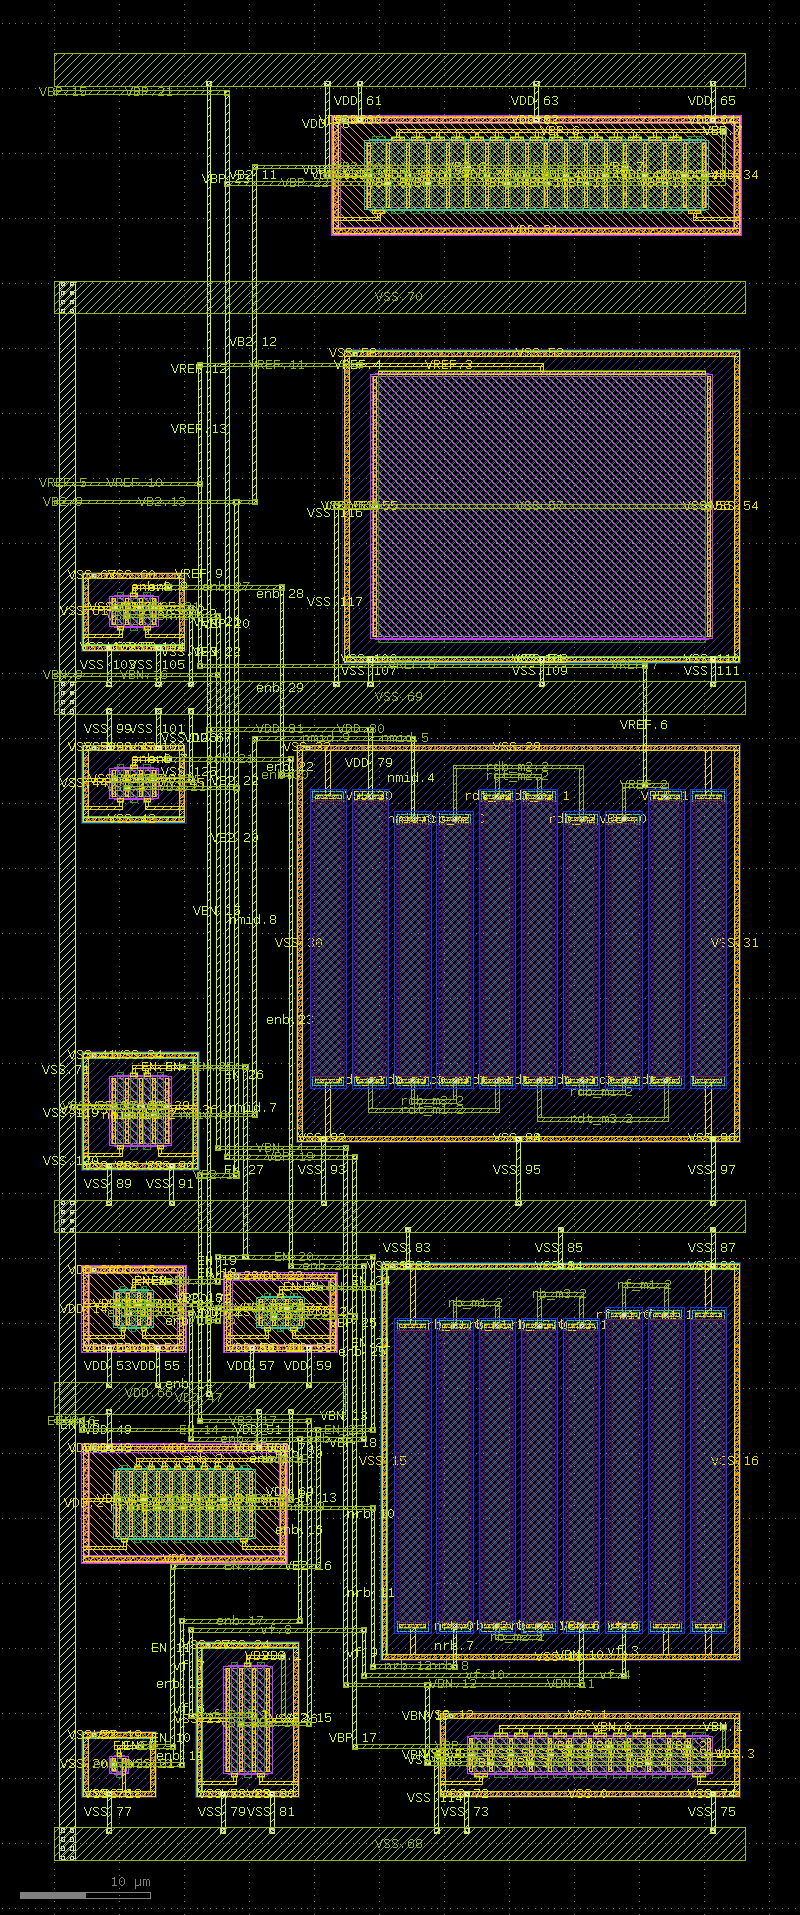
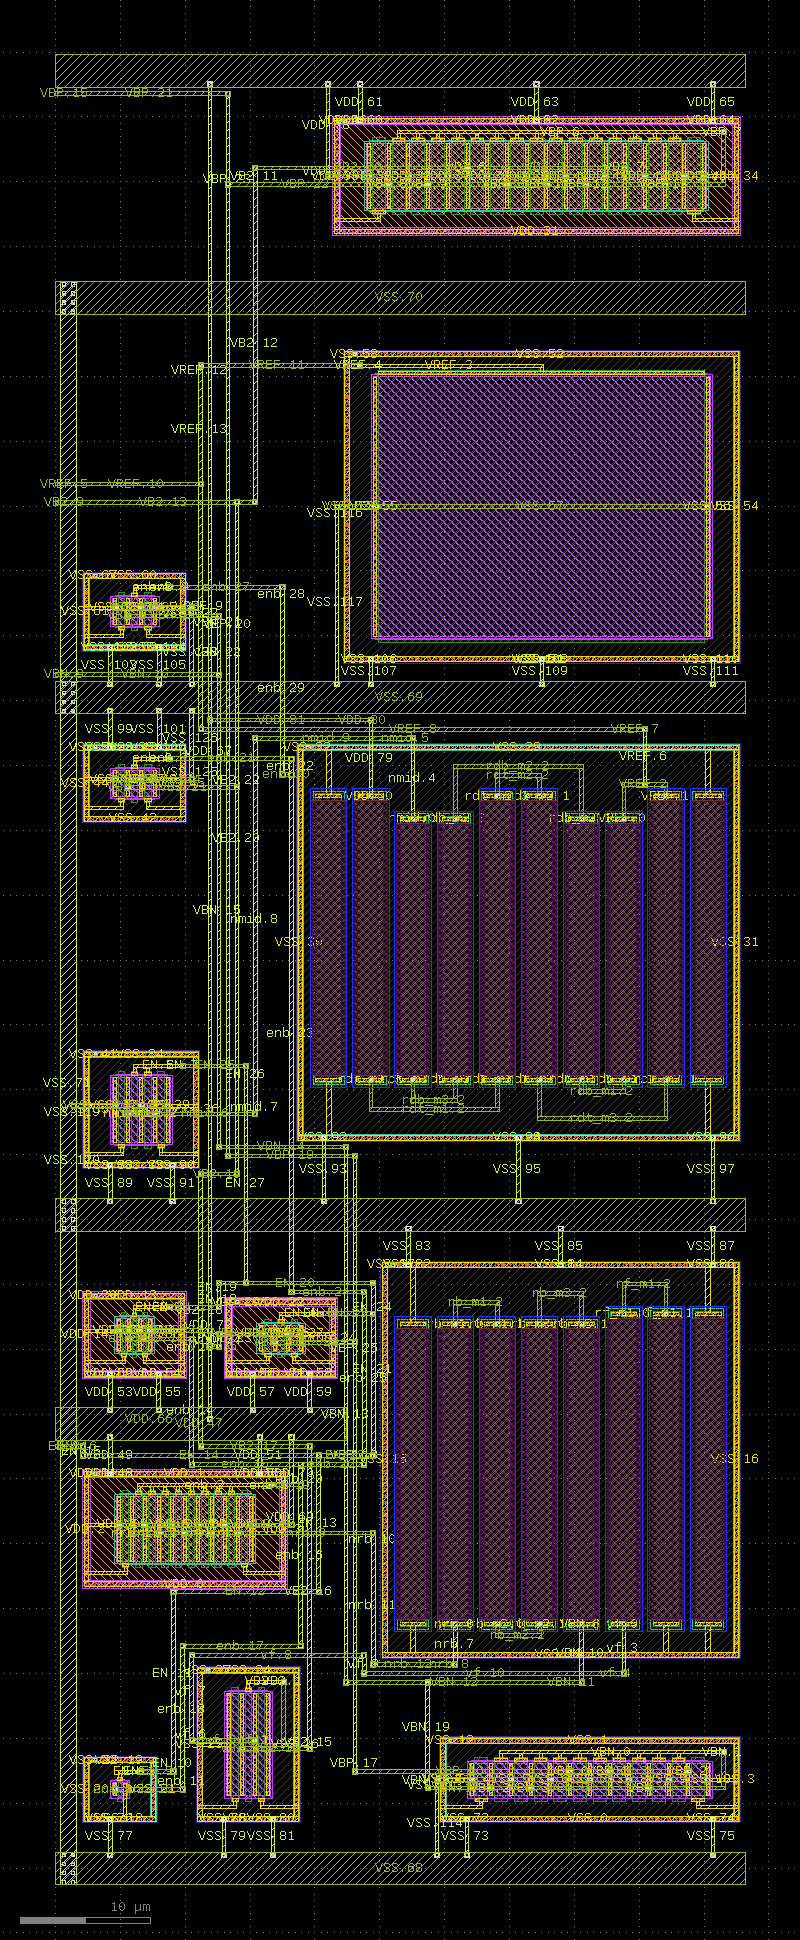
LVDS RX: package generators and checks read the macro frame from results/layout.json (650 x 194.2 um since D-018) instead of a hard-coded 650 x 192.1; gallery layout pictures re-rendered from the iteration-2 GDS; AUDIT_2 layout audit (7/7 from the GDS alone, 68 dummies by the audit's rule = the gene

diff --git a/analog/lvds_rx/package/make_readme.py b/analog/lvds_rx/package/make_readme.py
@@ -13,6 +13,13 @@ sys.path.insert(0, os.path.join(ROOT, "flow"))
 import common as C  # noqa: E402
 
 
+def frame():
+    """FIXED_BBOX and core of the delivered layout (results/layout.json, written by layout/macro/run_macro.py): the frame
+    follows the lane height (T11 iteration 2: 650 x 194.2 um)."""
+    lj = C.load_json(C.path("results", "layout.json"))
+    return lj["fixed_bbox_um"], lj["core_um"]
+
+
 def j(rel):
     p = os.path.join(ROOT, rel)
     return json.load(open(p)) if os.path.exists(p) else None
@@ -39,11 +46,13 @@ def main():
     chk = j("package/checks/report.json") or {}
     pins = C.load_yaml("spec/pins.yaml")
     head = subprocess.run(["git", "rev-parse", "--short", "HEAD"], cwd=ROOT, capture_output=True, text=True).stdout.strip()
+    fb, core = frame()
+    fw, fh, cw, ch = fb[2] - fb[0], fb[3] - fb[1], core[2] - core[0], core[3] - core[1]
     L = ["# lvds_rx_x3: three-lane LVDS receiver hard macro (gf180mcuD, 3.3 V)", "",
          "GENERATED by `package/make_readme.py`; do not edit by hand. Source commit `%s` (branch `lvds-rx`)." % head, "",
          "Three LVDS receiver lanes (CLK, D0, D1) with one shared bias block, 100 Mb/s NRZ per lane (margin eye at 200 Mb/s), "
-         "input common mode 0.05-2.35 V, 3.3 V CMOS outputs, EN power-down. Macro 650 x 192.1 um (core 600 x 142.1 um "
-         "plus a 25 um margin), internals on Metal1-Metal3 only. Learning project: nothing here is part of the A56 submission.", "",
+         "input common mode 0.05-2.35 V, 3.3 V CMOS outputs, EN power-down. Macro %g x %g um (core %g x %g um "
+         "plus a %g um margin), internals on Metal1-Metal3 only." % (fw, fh, cw, ch, core[0] - fb[0]) + " Learning project: nothing here is part of the A56 submission.", "",
          "## Status", ""]
     summ = g.get("summary", {})
     L += ["- Pre-layout regression (full tier, every corner and Monte Carlo of `spec/gates.yaml`): %s, gates %s, generated %s." % (
@@ -95,7 +104,7 @@ def main():
     L += ["", "Corner sets (sim/harness/corners.py): full45 = tt/ss/ff/fs/sf x -40/27/125 C x 3.0/3.3/3.6 V; worst5 = tt 27 C 3.3 V, "
           "ss 125 C 3.0 V, ff -40 C 3.6 V, fs and sf 27 C 3.3 V; eye15 = 5 processes x (-40 C 3.6 V, 27 C 3.3 V, 125 C 3.0 V).",
           "", "## Integration", "",
-          "- `lef/lvds_rx_x3.lef`: CLASS BLOCK, SIZE 650 x 192.1, OBS on Nwell and Metal1-Metal3; route over the macro on Metal4/Metal5 "
+          "- `lef/lvds_rx_x3.lef`: CLASS BLOCK, SIZE %g x %g, OBS on Nwell and Metal1-Metal3; route over the macro on Metal4/Metal5 " % (fw, fh) +
           "only. VDD / VSS are the Metal3 straps (connect the core grid with Metal4 stripes and via3). RXk_P / RXk_N on the top edge "
           "(pad side), EN and RXk_O on the bottom edge (core side).",
           "- `lib/`: one Liberty file per corner (tt_025C_3v30, ss_125C_3v00, ff_n40C_3v60), blackbox without timing arcs; RXk_O "

diff --git a/analog/lvds_rx/package/checks/run_checks.py b/analog/lvds_rx/package/checks/run_checks.py
@@ -1,7 +1,7 @@
 #!/usr/bin/env python3
 """run_checks.py -- T12 package checks (PLAN_V2 section 7).  Container: tools/cx python3 package/checks/run_checks.py
 
-  gds      DBU 0.001, top cell lvds_rx_x3, FIXED_BBOX boundary (layer 0/0) = 0,0 .. 650 x 192.1 um
+  gds      DBU 0.001, top cell lvds_rx_x3, FIXED_BBOX boundary (layer 0/0) = results/layout.json fixed_bbox_um
   lef      CLASS BLOCK, ORIGIN 0 0, SIZE = the GDS boundary; pins = spec/pins.yaml with the spec's layer, side (RX on the top
            edge, EN / RXk_O on the bottom edge) and x within 1 um of the inferred slot; VDD / VSS ports on Metal3 straps
   openroad the LEF loads with the gf180mcuD tech LEF (odb); width / height; antenna properties by the rules of LibreLane's
@@ -32,6 +32,13 @@ TECH_LEF = os.path.join(os.environ.get("PDK_ROOT", "/foss/pdks"), os.environ.get
 WD = os.path.join(ROOT, ".scratch", "t12", "checks")
 
 
+def frame():
+    """FIXED_BBOX and core of the delivered layout (results/layout.json, written by layout/macro/run_macro.py): the frame
+    follows the lane height (T11 iteration 2: 650 x 194.2 um)."""
+    lj = C.load_json(C.path("results", "layout.json"))
+    return lj["fixed_bbox_um"], lj["core_um"]
+
+
 def sha(p):
     return hashlib.sha256(open(p, "rb").read()).hexdigest()
 
@@ -51,7 +58,7 @@ def check_gds():
     bb = cell.bbox_per_layer(li) if li is not None else None
     box = None if bb is None or bb.empty() else [bb.left * ly.dbu, bb.bottom * ly.dbu, bb.right * ly.dbu, bb.top * ly.dbu]
     ok = abs(ly.dbu - 0.001) < 1e-12 and top == [CELL] and box is not None and \
-        all(abs(a - b) < 1e-6 for a, b in zip(box, [0.0, 0.0, 650.0, 192.1]))
+        all(abs(a - b) < 1e-6 for a, b in zip(box, frame()[0]))
     return dict(ok=ok, dbu=ly.dbu, top_cells=top, boundary_um=box)
 
 
@@ -148,7 +155,8 @@ def check_openroad():
     if not m:
         return dict(ok=False, error=out[-1500:])
     r = json.loads(m.group(1))
-    r["ok"] = bool(r.get("found") and abs(r["width_um"] - 650.0) < 1e-6 and abs(r["height_um"] - 192.1) < 1e-6
+    fb = frame()[0]
+    r["ok"] = bool(r.get("found") and abs(r["width_um"] - (fb[2] - fb[0])) < 1e-6 and abs(r["height_um"] - (fb[3] - fb[1])) < 1e-6
                    and not r["antenna_missing"])
     r["errors"] = [l for l in out.splitlines() if re.search(r"\[ERROR", l)][:5]
     r["ok"] = r["ok"] and not r["errors"]

diff --git a/analog/lvds_rx/package/make_package.py b/analog/lvds_rx/package/make_package.py
@@ -6,7 +6,7 @@ and the reference netlists.  Run in the container (Magic writes the LEF, KLayout
   tools/cx python3 package/make_package.py    everything below
   tools/cx python3 package/checks/run_checks.py
 
-  gds/lvds_rx_x3.gds            copy of results/layout/lvds_rx_x3.gds (DBU 0.001, FIXED_BBOX boundary 0,0 .. 650 x 192.1)
+  gds/lvds_rx_x3.gds            copy of results/layout/lvds_rx_x3.gds (DBU 0.001, FIXED_BBOX boundary of results/layout.json)
   lef/lvds_rx_x3.lef            Magic `lef write -hide` of the GDS (signal pins, OBS on Nwell and Metal1-3, the antenna areas
                                 Magic computes for EN and RXk_O), then: VDD / VSS = every Metal3 strap and gap fill of the
                                 macro (layout database), carved out of the Metal3 OBS with a 0.3 um clearance; DIRECTION / USE
@@ -39,6 +39,13 @@ GDS = os.path.join(ROOT, "results", "layout", CELL + ".gds")
 CORNERS = [("tt_025C_3v30", "tt", 25.0, 3.3, 1.0), ("ss_125C_3v00", "ss", 125.0, 3.0, 1.0), ("ff_n40C_3v60", "ff", -40.0, 3.6, 1.0)]
 M3_CLEAR = 0.3                 # um between a power pin and the remaining Metal3 OBS (Metal3 spacing 0.28 um)
 WORK = os.path.join(ROOT, ".scratch", "t12", "work")
+
+
+def frame():
+    """FIXED_BBOX and core of the delivered layout (results/layout.json, written by layout/macro/run_macro.py): the frame
+    follows the lane height (T11 iteration 2: 650 x 194.2 um)."""
+    lj = C.load_json(C.path("results", "layout.json"))
+    return lj["fixed_bbox_um"], lj["core_um"]
 
 
 def sha(p):
@@ -174,7 +181,8 @@ def write_lef(path):
 def write_libs(d, caps):
     spec = C.load_yaml("spec/spec.yaml")
     ps = pins_spec()
-    area = 650.0 * 192.1
+    fb, _ = frame()
+    area = round((fb[2] - fb[0]) * (fb[3] - fb[1]), 3)
     cl = spec["output"]["load_f"] * 1e12                     # pF
     tr = spec["output"]["edge_10_90_max_s"] * 1e9            # ns
     files = []
